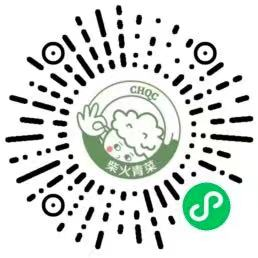
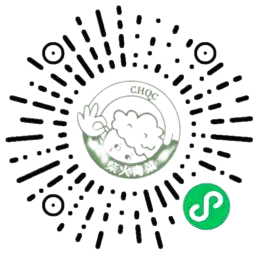
new

diff --git a/2022/08/02/推荐在线图片处理的站点/index.html b/2022/08/02/推荐在线图片处理的站点/index.html
@@ -5,15 +5,15 @@
   
   <title>推荐在线图片处理的网站 | Huanglei</title>
   <meta name="viewport" content="width=device-width, initial-scale=1, maximum-scale=1">
-  <meta name="description" content="人工智能老照片无损修复https:&#x2F;&#x2F;jpghd.com 图片压缩https:&#x2F;&#x2F;caesium.apphttps:&#x2F;&#x2F;imagecompressor.com&#x2F;zhhttps:&#x2F;&#x2F;picdiet.com&#x2F;zh-cnhttps:&#x2F;&#x2F;tinypng.comhttp:&#x2F;&#x2F;jpeg-optimizer.comhttps:&#x2F;&#x2F;compressor.io Ai人工智能图片放大https:&#x2F;&#x2F;bigjpg.co">
+  <meta name="description" content="人工智能老照片无损修复https:&#x2F;&#x2F;jpghd.com 图片压缩https:&#x2F;&#x2F;caesium.apphttps:&#x2F;&#x2F;imagecompressor.com&#x2F;zhhttps:&#x2F;&#x2F;picdiet.com&#x2F;zh-cnhttps:&#x2F;&#x2F;tinypng.comhttp:&#x2F;&#x2F;jpeg-optimizer.comhttps:&#x2F;&#x2F;compressor.io Ai抠图https:&#x2F;&#x2F;bgsub.cn Ai人工智能">
 <meta property="og:type" content="article">
 <meta property="og:title" content="推荐在线图片处理的网站">
 <meta property="og:url" content="https://maxlay.github.io/2022/08/02/%E6%8E%A8%E8%8D%90%E5%9C%A8%E7%BA%BF%E5%9B%BE%E7%89%87%E5%A4%84%E7%90%86%E7%9A%84%E7%AB%99%E7%82%B9/index.html">
 <meta property="og:site_name" content="Huanglei">
-<meta property="og:description" content="人工智能老照片无损修复https:&#x2F;&#x2F;jpghd.com 图片压缩https:&#x2F;&#x2F;caesium.apphttps:&#x2F;&#x2F;imagecompressor.com&#x2F;zhhttps:&#x2F;&#x2F;picdiet.com&#x2F;zh-cnhttps:&#x2F;&#x2F;tinypng.comhttp:&#x2F;&#x2F;jpeg-optimizer.comhttps:&#x2F;&#x2F;compressor.io Ai人工智能图片放大https:&#x2F;&#x2F;bigjpg.co">
+<meta property="og:description" content="人工智能老照片无损修复https:&#x2F;&#x2F;jpghd.com 图片压缩https:&#x2F;&#x2F;caesium.apphttps:&#x2F;&#x2F;imagecompressor.com&#x2F;zhhttps:&#x2F;&#x2F;picdiet.com&#x2F;zh-cnhttps:&#x2F;&#x2F;tinypng.comhttp:&#x2F;&#x2F;jpeg-optimizer.comhttps:&#x2F;&#x2F;compressor.io Ai抠图https:&#x2F;&#x2F;bgsub.cn Ai人工智能">
 <meta property="og:locale" content="zh_CN">
 <meta property="article:published_time" content="2022-08-02T07:28:18.000Z">
-<meta property="article:modified_time" content="2022-09-24T12:44:58.806Z">
+<meta property="article:modified_time" content="2022-09-24T14:20:51.572Z">
 <meta property="article:author" content="HuangLei">
 <meta property="article:tag" content="Huanglei">
 <meta name="twitter:card" content="summary">
@@ -169,6 +169,7 @@ var _hmt = _hmt || [];
       
         <h2 id="人工智能老照片无损修复"><a href="#人工智能老照片无损修复" class="headerlink" title="人工智能老照片无损修复"></a>人工智能老照片无损修复</h2><p><a target="_blank" rel="noopener" href="https://jpghd.com/">https://jpghd.com</a></p>
 <h2 id="图片压缩"><a href="#图片压缩" class="headerlink" title="图片压缩"></a>图片压缩</h2><p><a target="_blank" rel="noopener" href="https://caesium.app/">https://caesium.app</a><br><a target="_blank" rel="noopener" href="https://imagecompressor.com/zh">https://imagecompressor.com/zh</a><br><a target="_blank" rel="noopener" href="https://picdiet.com/zh-cn">https://picdiet.com/zh-cn</a><br><a target="_blank" rel="noopener" href="https://tinypng.com/">https://tinypng.com</a><br><a target="_blank" rel="noopener" href="http://jpeg-optimizer.com/">http://jpeg-optimizer.com</a><br><a target="_blank" rel="noopener" href="https://compressor.io/">https://compressor.io</a></p>
+<h2 id="Ai抠图"><a href="#Ai抠图" class="headerlink" title="Ai抠图"></a>Ai抠图</h2><p><a target="_blank" rel="noopener" href="https://bgsub.cn/">https://bgsub.cn</a></p>
 <h2 id="Ai人工智能图片放大"><a href="#Ai人工智能图片放大" class="headerlink" title="Ai人工智能图片放大"></a>Ai人工智能图片放大</h2><p><a target="_blank" rel="noopener" href="https://bigjpg.com/">https://bigjpg.com</a></p>
 <h2 id="Ai换脸"><a href="#Ai换脸" class="headerlink" title="Ai换脸"></a>Ai换脸</h2><p><a target="_blank" rel="noopener" href="https://faceswapper.ai/">https://faceswapper.ai</a></p>
 <h2 id="图像格式转换"><a href="#图像格式转换" class="headerlink" title="图像格式转换"></a>图像格式转换</h2><p><a target="_blank" rel="noopener" href="https://www.jpeg.io/">https://www.jpeg.io</a></p>

diff --git a/2022/08/09/我的数字资产/index.html b/2022/08/09/我的数字资产/index.html
@@ -12,17 +12,17 @@
 <meta property="og:site_name" content="Huanglei">
 <meta property="og:description" content="本文特别水，是我个人对存储和网盘的理解，没什么参考价值。">
 <meta property="og:locale" content="zh_CN">
-<meta property="og:image" content="https://ghproxy.com/https://raw.githubusercontent.com/maxlay/maxlay.github.io/main/uploads/2022/08/hard-drive.jpg">
+<meta property="og:image" content="https://ghproxy.com/https://raw.githubusercontent.com/maxlay/maxlay.github.io/main/uploads/2022/08/hard-drive.png">
 <meta property="og:image" content="https://ghproxy.com/https://raw.githubusercontent.com/maxlay/maxlay.github.io/main/uploads/2022/08/ssd.jpg">
 <meta property="og:image" content="https://ghproxy.com/https://raw.githubusercontent.com/maxlay/maxlay.github.io/main/uploads/2022/08/jd.jpg">
 <meta property="og:image" content="https://ghproxy.com/https://raw.githubusercontent.com/maxlay/maxlay.github.io/main/uploads/2022/08/pdd.jpg">
-<meta property="og:image" content="https://ghproxy.com/https://raw.githubusercontent.com/maxlay/maxlay.github.io/main/uploads/2022/08/IMG_8185.jpeg">
+<meta property="og:image" content="https://ghproxy.com/https://raw.githubusercontent.com/maxlay/maxlay.github.io/main/uploads/2022/08/IMG_8185.png">
 <meta property="article:published_time" content="2022-08-09T08:51:01.000Z">
-<meta property="article:modified_time" content="2022-09-02T03:23:25.650Z">
+<meta property="article:modified_time" content="2022-09-24T14:28:58.246Z">
 <meta property="article:author" content="HuangLei">
 <meta property="article:tag" content="Huanglei">
 <meta name="twitter:card" content="summary">
-<meta name="twitter:image" content="https://ghproxy.com/https://raw.githubusercontent.com/maxlay/maxlay.github.io/main/uploads/2022/08/hard-drive.jpg">
+<meta name="twitter:image" content="https://ghproxy.com/https://raw.githubusercontent.com/maxlay/maxlay.github.io/main/uploads/2022/08/hard-drive.png">
   
   
     <link rel="icon" href="/favicon.png">
@@ -175,7 +175,7 @@ var _hmt = _hmt || [];
       
         <p><audio controls="" src="https://ghproxy.com/https://raw.githubusercontent.com/maxlay/maxlay.github.io/main/2022/08/09/%E6%88%91%E7%9A%84%E6%95%B0%E5%AD%97%E8%B5%84%E4%BA%A7/result.mp3"></audio></p>
 <p>本文特别水，是我个人对存储和网盘的理解，没什么参考价值。</p>
-<p><img src="https://ghproxy.com/https://raw.githubusercontent.com/maxlay/maxlay.github.io/main/uploads/2022/08/hard-drive.jpg"></p>
+<p><img src="https://ghproxy.com/https://raw.githubusercontent.com/maxlay/maxlay.github.io/main/uploads/2022/08/hard-drive.png"></p>
 <span id="more"></span>
 
 <h4 id="系统SSD："><a href="#系统SSD：" class="headerlink" title="系统SSD："></a>系统SSD：</h4><blockquote>
@@ -226,7 +226,7 @@ var _hmt = _hmt || [];
 <blockquote>
 <p>特别是ISP的网盘，量足速度快，根本找不到一个向BAT网盘付费的理由。</p>
 </blockquote>
-<p><img src="https://ghproxy.com/https://raw.githubusercontent.com/maxlay/maxlay.github.io/main/uploads/2022/08/IMG_8185.jpeg"></p>
+<p><img src="https://ghproxy.com/https://raw.githubusercontent.com/maxlay/maxlay.github.io/main/uploads/2022/08/IMG_8185.png"></p>
 <p>我手机上装着ISP两大网盘的APP，全都设置成自动备份相册和手机视频，一来免费无限速上传和随时随地下载；二来数据隐私方面，我信不过BAT；其三我觉得数据安全角度，我的相册视频存我手机上，日常MBP和MacMini的iTunes备份，中移动网盘，中电信网盘，自家2块以上的机械硬盘冷备份，显得特别安心特别冗灾。</p>
 <blockquote>
 <p>不付费的情况下，中国移动网盘给了3T个人空间和2T家庭空间，网盘的使用逻辑和免费通话家庭网很像，ISP的逻辑就是一家人都要用一个运营商，一个不能少。而且官方提供TV端（比阿里云不提供TV端更大气），可以在电视上看网盘里的视频，但是无论网速还是解码，都还有待提高啊！</p>

diff --git a/2022/09/11/推荐几个进货的网站/index.html b/2022/09/11/推荐几个进货的网站/index.html
@@ -12,13 +12,13 @@
 <meta property="og:site_name" content="Huanglei">
 <meta property="og:description" content="盘一个经济学的基础知识，一个人的收入是另一个人的支出，贸易就是我用时间挣的钱换你用时间制造的商品，买卖就是时间的交易，所以时间就是金钱。找到货的源头，少了中间商抽佣，一分钱就能买到一分货。省下来的钱就是赚到的，这年头要赚钱，要么你掌握货源，要么你掌握交易平台，而平台竞争的门槛就是百亿补贴，没点家底拿来烧用户，梦想着靠任何战术偷个城，在2202年的今天，你是不是想简单了？而普通消费者吃哪一套，就">
 <meta property="og:locale" content="zh_CN">
-<meta property="og:image" content="https://ghproxy.com/https://raw.githubusercontent.com/maxlay/maxlay.github.io/main/uploads/2022/09/shopping.jpg">
+<meta property="og:image" content="https://ghproxy.com/https://raw.githubusercontent.com/maxlay/maxlay.github.io/main/uploads/2022/09/shopping.png">
 <meta property="article:published_time" content="2022-09-11T09:39:43.000Z">
-<meta property="article:modified_time" content="2022-09-12T11:02:01.269Z">
+<meta property="article:modified_time" content="2022-09-24T14:14:34.567Z">
 <meta property="article:author" content="HuangLei">
 <meta property="article:tag" content="Huanglei">
 <meta name="twitter:card" content="summary">
-<meta name="twitter:image" content="https://ghproxy.com/https://raw.githubusercontent.com/maxlay/maxlay.github.io/main/uploads/2022/09/shopping.jpg">
+<meta name="twitter:image" content="https://ghproxy.com/https://raw.githubusercontent.com/maxlay/maxlay.github.io/main/uploads/2022/09/shopping.png">
   
   
     <link rel="icon" href="/favicon.png">
@@ -170,7 +170,7 @@ var _hmt = _hmt || [];
     <div class="article-entry" itemprop="articleBody">
       
         <p><audio controls="" src="https://ghproxy.com/https://raw.githubusercontent.com/maxlay/maxlay.github.io/main/2022/09/11/推荐几个进货的网站/result.mp3"></audio></p>
-<p><img src="https://ghproxy.com/https://raw.githubusercontent.com/maxlay/maxlay.github.io/main/uploads/2022/09/shopping.jpg"></p>
+<p><img src="https://ghproxy.com/https://raw.githubusercontent.com/maxlay/maxlay.github.io/main/uploads/2022/09/shopping.png"></p>
 <p>盘一个经济学的基础知识，一个人的收入是另一个人的支出，贸易就是我用时间挣的钱换你用时间制造的商品，买卖就是时间的交易，所以时间就是金钱。找到货的源头，少了中间商抽佣，一分钱就能买到一分货。省下来的钱就是赚到的，这年头要赚钱，要么你掌握货源，要么你掌握交易平台，而平台竞争的门槛就是百亿补贴，没点家底拿来烧用户，梦想着靠任何战术偷个城，在2202年的今天，你是不是想简单了？而普通消费者吃哪一套，就会用钱投票，拼多多今年第二季度收入314亿元，较上年同期增长36%，经营利润87亿元，是外界预期的3倍，股价一度飙升30%，强者恒强。那些选择在拼多多开店的商家，为了日益枯竭的流量，竞争也是惨烈，价格低到令人发指，日子也不好过。作为消费者的你有多久没打开淘宝了？甚至很多人都已经卸载淘宝了吧？PDD就是消费降级？一分钱买一分货，有什么不对的？今天就来扒一扒那些淘宝上搞一键代发的货源，缩小你因为信息差损失的钱。</p>
 <span id="more"></span>
 

diff --git a/2018/11/16/t-me/index.html b/2018/11/16/t-me/index.html
@@ -12,13 +12,13 @@
 <meta property="og:site_name" content="Huanglei">
 <meta property="og:description" content="这里是本站的官方电报群：http:&#x2F;&#x2F;t.me&#x2F;HUANGLAY MTPROTO代理：https:&#x2F;&#x2F;whiteproxy.net&#x2F; 我在用的代理： https:&#x2F;&#x2F;t.me&#x2F;proxy?server&#x3D;free1.dianbaodaili.com&amp;port&#x3D;50010&amp;secret&#x3D;7vozq8O8b4725&#x2F;GdehBVBCh3d3cubWljcm9zb2Z0LmNvbQ ht">
 <meta property="og:locale" content="zh_CN">
-<meta property="og:image" content="https://ghproxy.com/https://raw.githubusercontent.com/maxlay/maxlay.github.io/main/uploads/2022/09/IMG_8476.jpeg">
+<meta property="og:image" content="https://ghproxy.com/https://raw.githubusercontent.com/maxlay/maxlay.github.io/main/uploads/2022/09/BgSub_IMG_8476.png">
 <meta property="article:published_time" content="2018-11-15T16:35:44.000Z">
-<meta property="article:modified_time" content="2022-09-24T12:38:52.112Z">
+<meta property="article:modified_time" content="2022-09-24T14:12:31.976Z">
 <meta property="article:author" content="HuangLei">
 <meta property="article:tag" content="Huanglei">
 <meta name="twitter:card" content="summary">
-<meta name="twitter:image" content="https://ghproxy.com/https://raw.githubusercontent.com/maxlay/maxlay.github.io/main/uploads/2022/09/IMG_8476.jpeg">
+<meta name="twitter:image" content="https://ghproxy.com/https://raw.githubusercontent.com/maxlay/maxlay.github.io/main/uploads/2022/09/BgSub_IMG_8476.png">
   
   
     <link rel="icon" href="/favicon.png">
@@ -169,7 +169,7 @@ var _hmt = _hmt || [];
     
     <div class="article-entry" itemprop="articleBody">
       
-        <p><a href="tg://resolve?domain=HUANGLAY"><img src="https://ghproxy.com/https://raw.githubusercontent.com/maxlay/maxlay.github.io/main/uploads/2022/09/IMG_8476.jpeg"></a></p>
+        <p><a href="tg://resolve?domain=HUANGLAY"><img src="https://ghproxy.com/https://raw.githubusercontent.com/maxlay/maxlay.github.io/main/uploads/2022/09/BgSub_IMG_8476.png"></a></p>
 <p>这里是本站的官方电报群：<a href="tg://resolve?domain=HUANGLAY">http://t.me/HUANGLAY</a></p>
 <p>MTPROTO代理：<a target="_blank" rel="noopener" href="https://whiteproxy.net/">https://whiteproxy.net/</a></p>
 <p>我在用的代理：</p>
@@ -178,6 +178,11 @@ var _hmt = _hmt || [];
 <p><a target="_blank" rel="noopener" href="https://t.me/proxy?server=kazakhstan.dianbaodaili.com&amp;port=39001&amp;secret=7vozq8O8b4725/GdehBVBCh3d3cubWljcm9zb2Z0LmNvbQ">https://t.me/proxy?server=kazakhstan.dianbaodaili.com&amp;port=39001&amp;secret=7vozq8O8b4725/GdehBVBCh3d3cubWljcm9zb2Z0LmNvbQ</a></p>
 <p>我在用的聊天背景：</p>
 <p><a target="_blank" rel="noopener" href="https://t.me/bg/CJNyxPMgSVAEAAAAvW9sMwc51cw?intensity=100&amp;bg_color=fec496~dd6cb9~962fbf~4f5bd5&amp;mode=motion">https://t.me/bg/CJNyxPMgSVAEAAAAvW9sMwc51cw?intensity=100&amp;bg_color=fec496~dd6cb9~962fbf~4f5bd5&amp;mode=motion</a></p>
+<p>TG机器人商店：</p>
+<p><a target="_blank" rel="noopener" href="https://botostore.com/bots">https://botostore.com/bots</a></p>
+<blockquote>
+<p>目前已经共收录12.8万个，各个领域的Telegram机器人都有，并且这些机器人都是通过人类增强 AI 实现自动化在线测试后添加的，也就是说出现离线不回复的机器人机会比较低（有些机器人会出现故障），每个机器人都有详细的介绍和使用说明。</p>
+</blockquote>
 
       
     </div>

diff --git a/2022/08/30/雅迪电动车/index.html b/2022/08/30/雅迪电动车/index.html
@@ -12,13 +12,13 @@
 <meta property="og:site_name" content="Huanglei">
 <meta property="og:description" content="据说湖州9月1日开始旧电车置换活动停止了，最后两天把家里的旧电车置换一下，购入新国标雅迪电动车TDR2755Z星空白，锂电48V24Ah，自付3200元。  “浙品码”：https:&#x2F;&#x2F;www.pzcode.cn&#x2F;Manage&#x2F;Basic&#x2F;Battery&#x2F;ScanView.aspx?type&#x3D;0&amp;id&#x3D;10086378 《电动自行车靠近解锁》小2万的九号电动车E200有一个很牛的功能，就是">
 <meta property="og:locale" content="zh_CN">
-<meta property="og:image" content="https://ghproxy.com/https://raw.githubusercontent.com/maxlay/maxlay.github.io/main/uploads/2022/08/IMG_8271.jpeg">
+<meta property="og:image" content="https://ghproxy.com/https://raw.githubusercontent.com/maxlay/maxlay.github.io/main/uploads/2022/08/IMG_8271.png">
 <meta property="article:published_time" content="2022-08-30T02:58:22.000Z">
-<meta property="article:modified_time" content="2022-09-02T03:23:25.394Z">
+<meta property="article:modified_time" content="2022-09-24T14:33:53.728Z">
 <meta property="article:author" content="HuangLei">
 <meta property="article:tag" content="Huanglei">
 <meta name="twitter:card" content="summary">
-<meta name="twitter:image" content="https://ghproxy.com/https://raw.githubusercontent.com/maxlay/maxlay.github.io/main/uploads/2022/08/IMG_8271.jpeg">
+<meta name="twitter:image" content="https://ghproxy.com/https://raw.githubusercontent.com/maxlay/maxlay.github.io/main/uploads/2022/08/IMG_8271.png">
   
   
     <link rel="icon" href="/favicon.png">
@@ -170,7 +170,7 @@ var _hmt = _hmt || [];
     <div class="article-entry" itemprop="articleBody">
       
         <p>据说湖州9月1日开始旧电车置换活动停止了，最后两天把家里的旧电车置换一下，购入新国标雅迪电动车TDR2755Z星空白，锂电48V24Ah，自付3200元。</p>
-<p><img src="https://ghproxy.com/https://raw.githubusercontent.com/maxlay/maxlay.github.io/main/uploads/2022/08/IMG_8271.jpeg"></p>
+<p><img src="https://ghproxy.com/https://raw.githubusercontent.com/maxlay/maxlay.github.io/main/uploads/2022/08/IMG_8271.png"></p>
 <p>“浙品码”：<br><a target="_blank" rel="noopener" href="https://www.pzcode.cn/Manage/Basic/Battery/ScanView.aspx?type=0&amp;id=10086378">https://www.pzcode.cn/Manage/Basic/Battery/ScanView.aspx?type=0&amp;id=10086378</a></p>
 <p><a href="https://maxlay.github.io/2021/11/04/%E7%94%B5%E5%8A%A8%E8%87%AA%E8%A1%8C%E8%BD%A6%E9%9D%A0%E8%BF%91%E8%A7%A3%E9%94%81/">《电动自行车靠近解锁》</a><br>小2万的九号电动车E200有一个很牛的功能，就是手机靠近即可解锁，离开自动上锁。我觉得这个功能挺好，车也很好，就是售价不怎么好。<a href="https://maxlay.github.io/2021/11/04/%E7%94%B5%E5%8A%A8%E8%87%AA%E8%A1%8C%E8%BD%A6%E9%9D%A0%E8%BF%91%E8%A7%A3%E9%94%81/">……</a><br><a href="https://maxlay.github.io/2021/11/04/%E7%94%B5%E5%8A%A8%E8%87%AA%E8%A1%8C%E8%BD%A6%E9%9D%A0%E8%BF%91%E8%A7%A3%E9%94%81/">https://maxlay.github.io/2021/11/04/%E7%94%B5%E5%8A%A8%E8%87%AA%E8%A1%8C%E8%BD%A6%E9%9D%A0%E8%BF%91%E8%A7%A3%E9%94%81/</a></p>
 

diff --git a/page/5/index.html b/page/5/index.html
@@ -272,7 +272,7 @@ var _hmt = _hmt || [];
       
         <p><audio controls="" src="https://ghproxy.com/https://raw.githubusercontent.com/maxlay/maxlay.github.io/main/2022/08/15/Tiktok/result.mp3"></audio></p>
 <p>如何在iOS上安装和使用国际版TikTok</p>
-<p><img src="https://ghproxy.com/https://raw.githubusercontent.com/maxlay/maxlay.github.io/main/uploads/2022/08/Tiktok.jpeg"></p>
+<p><img src="https://ghproxy.com/https://raw.githubusercontent.com/maxlay/maxlay.github.io/main/uploads/2022/08/Tiktok.png"></p>
 <p>1、首先要能科学上网<br><a href="https://maxlay.github.io/2022/08/14/ShadowRocket2022/">https://maxlay.github.io/2022/08/14/ShadowRocket2022/</a></p>
 <p>2、下载国际版TikTok的ipa文件到桌面端<br><a target="_blank" rel="noopener" href="https://www.mediafire.com/file/7rtq772su5wsa57/tiktok.ipa/file">https://www.mediafire.com/file/7rtq772su5wsa57/tiktok.ipa/file</a></p>
 <p>3、下载桌面端自签名工具签名ipa并安装到手机<br><a target="_blank" rel="noopener" href="https://sideloadly.io/">https://sideloadly.io</a></p>
@@ -388,7 +388,7 @@ var _hmt = _hmt || [];
       
         <p><audio controls="" src="https://ghproxy.com/https://raw.githubusercontent.com/maxlay/maxlay.github.io/main/2022/08/13/%E5%85%B3%E4%BA%8E%E5%87%8F%E8%82%A5/result.mp3"></audio></p>
 <p>我是个胖子，我认为是因为胖，所以我的低密度脂蛋白胆固醇超标严重，达到了惊人的4.6，虽然目前没有病症，防患未然，我决定并实施减肥，本文探索适合自己的减肥方案，是我的日常，不适合每个人。</p>
-<p><img src="https://ghproxy.com/https://raw.githubusercontent.com/maxlay/maxlay.github.io/main/uploads/2022/08/bmi.jpg"></p>
+<p><img src="https://ghproxy.com/https://raw.githubusercontent.com/maxlay/maxlay.github.io/main/uploads/2022/08/bmi.png"></p>
 <p>BMI正常值在18.5至24之间，我的目标是22以下。</p>
 <h5 id="我目前的BMI是：25-827814569536424"><a href="#我目前的BMI是：25-827814569536424" class="headerlink" title="我目前的BMI是：25.827814569536424"></a>我目前的BMI是：25.827814569536424</h5>
         
@@ -614,7 +614,7 @@ var _hmt = _hmt || [];
       
         <p><audio controls="" src="https://ghproxy.com/https://raw.githubusercontent.com/maxlay/maxlay.github.io/main/2022/08/09/%E6%88%91%E7%9A%84%E6%95%B0%E5%AD%97%E8%B5%84%E4%BA%A7/result.mp3"></audio></p>
 <p>本文特别水，是我个人对存储和网盘的理解，没什么参考价值。</p>
-<p><img src="https://ghproxy.com/https://raw.githubusercontent.com/maxlay/maxlay.github.io/main/uploads/2022/08/hard-drive.jpg"></p>
+<p><img src="https://ghproxy.com/https://raw.githubusercontent.com/maxlay/maxlay.github.io/main/uploads/2022/08/hard-drive.png"></p>
         
           <p class="article-more-link">
             <a href="/2022/08/09/%E6%88%91%E7%9A%84%E6%95%B0%E5%AD%97%E8%B5%84%E4%BA%A7/#more">......</a>

diff --git a/2022/08/15/Tiktok/index.html b/2022/08/15/Tiktok/index.html
@@ -12,13 +12,13 @@
 <meta property="og:site_name" content="Huanglei">
 <meta property="og:description" content="如何在iOS上安装和使用国际版TikTok  1、首先要能科学上网https:&#x2F;&#x2F;maxlay.github.io&#x2F;2022&#x2F;08&#x2F;14&#x2F;ShadowRocket2022&#x2F; 2、下载国际版TikTok的ipa文件到桌面端https:&#x2F;&#x2F;www.mediafire.com&#x2F;file&#x2F;7rtq772su5wsa57&#x2F;tiktok.ipa&#x2F;file 3、下载桌面端自签名工具签名ipa并安装到手机htt">
 <meta property="og:locale" content="zh_CN">
-<meta property="og:image" content="https://ghproxy.com/https://raw.githubusercontent.com/maxlay/maxlay.github.io/main/uploads/2022/08/Tiktok.jpeg">
+<meta property="og:image" content="https://ghproxy.com/https://raw.githubusercontent.com/maxlay/maxlay.github.io/main/uploads/2022/08/Tiktok.png">
 <meta property="article:published_time" content="2022-08-15T04:14:01.000Z">
-<meta property="article:modified_time" content="2022-09-09T05:54:47.790Z">
+<meta property="article:modified_time" content="2022-09-24T14:37:09.271Z">
 <meta property="article:author" content="HuangLei">
 <meta property="article:tag" content="Huanglei">
 <meta name="twitter:card" content="summary">
-<meta name="twitter:image" content="https://ghproxy.com/https://raw.githubusercontent.com/maxlay/maxlay.github.io/main/uploads/2022/08/Tiktok.jpeg">
+<meta name="twitter:image" content="https://ghproxy.com/https://raw.githubusercontent.com/maxlay/maxlay.github.io/main/uploads/2022/08/Tiktok.png">
   
   
     <link rel="icon" href="/favicon.png">
@@ -171,7 +171,7 @@ var _hmt = _hmt || [];
       
         <p><audio controls="" src="https://ghproxy.com/https://raw.githubusercontent.com/maxlay/maxlay.github.io/main/2022/08/15/Tiktok/result.mp3"></audio></p>
 <p>如何在iOS上安装和使用国际版TikTok</p>
-<p><img src="https://ghproxy.com/https://raw.githubusercontent.com/maxlay/maxlay.github.io/main/uploads/2022/08/Tiktok.jpeg"></p>
+<p><img src="https://ghproxy.com/https://raw.githubusercontent.com/maxlay/maxlay.github.io/main/uploads/2022/08/Tiktok.png"></p>
 <p>1、首先要能科学上网<br><a href="https://maxlay.github.io/2022/08/14/ShadowRocket2022/">https://maxlay.github.io/2022/08/14/ShadowRocket2022/</a></p>
 <p>2、下载国际版TikTok的ipa文件到桌面端<br><a target="_blank" rel="noopener" href="https://www.mediafire.com/file/7rtq772su5wsa57/tiktok.ipa/file">https://www.mediafire.com/file/7rtq772su5wsa57/tiktok.ipa/file</a></p>
 <p>3、下载桌面端自签名工具签名ipa并安装到手机<br><a target="_blank" rel="noopener" href="https://sideloadly.io/">https://sideloadly.io</a></p>

diff --git a/2022/08/13/关于减肥/index.html b/2022/08/13/关于减肥/index.html
@@ -12,13 +12,13 @@
 <meta property="og:site_name" content="Huanglei">
 <meta property="og:description" content="我是个胖子，我认为是因为胖，所以我的低密度脂蛋白胆固醇超标严重，达到了惊人的4.6，虽然目前没有病症，防患未然，我决定并实施减肥，本文探索适合自己的减肥方案，是我的日常，不适合每个人。  BMI正常值在18.5至24之间，我的目标是22以下。 我目前的BMI是：25.827814569536424">
 <meta property="og:locale" content="zh_CN">
-<meta property="og:image" content="https://ghproxy.com/https://raw.githubusercontent.com/maxlay/maxlay.github.io/main/uploads/2022/08/bmi.jpg">
+<meta property="og:image" content="https://ghproxy.com/https://raw.githubusercontent.com/maxlay/maxlay.github.io/main/uploads/2022/08/bmi.png">
 <meta property="article:published_time" content="2022-08-13T03:40:06.000Z">
-<meta property="article:modified_time" content="2022-09-09T05:50:32.480Z">
+<meta property="article:modified_time" content="2022-09-24T14:22:20.625Z">
 <meta property="article:author" content="HuangLei">
 <meta property="article:tag" content="Huanglei">
 <meta name="twitter:card" content="summary">
-<meta name="twitter:image" content="https://ghproxy.com/https://raw.githubusercontent.com/maxlay/maxlay.github.io/main/uploads/2022/08/bmi.jpg">
+<meta name="twitter:image" content="https://ghproxy.com/https://raw.githubusercontent.com/maxlay/maxlay.github.io/main/uploads/2022/08/bmi.png">
   
   
     <link rel="icon" href="/favicon.png">
@@ -171,7 +171,7 @@ var _hmt = _hmt || [];
       
         <p><audio controls="" src="https://ghproxy.com/https://raw.githubusercontent.com/maxlay/maxlay.github.io/main/2022/08/13/%E5%85%B3%E4%BA%8E%E5%87%8F%E8%82%A5/result.mp3"></audio></p>
 <p>我是个胖子，我认为是因为胖，所以我的低密度脂蛋白胆固醇超标严重，达到了惊人的4.6，虽然目前没有病症，防患未然，我决定并实施减肥，本文探索适合自己的减肥方案，是我的日常，不适合每个人。</p>
-<p><img src="https://ghproxy.com/https://raw.githubusercontent.com/maxlay/maxlay.github.io/main/uploads/2022/08/bmi.jpg"></p>
+<p><img src="https://ghproxy.com/https://raw.githubusercontent.com/maxlay/maxlay.github.io/main/uploads/2022/08/bmi.png"></p>
 <p>BMI正常值在18.5至24之间，我的目标是22以下。</p>
 <h5 id="我目前的BMI是：25-827814569536424"><a href="#我目前的BMI是：25-827814569536424" class="headerlink" title="我目前的BMI是：25.827814569536424"></a>我目前的BMI是：25.827814569536424</h5><span id="more"></span>
 

diff --git a/2022/04/18/从Manjaro到Fydeos/index.html b/2022/04/18/从Manjaro到Fydeos/index.html
@@ -12,15 +12,15 @@
 <meta property="og:site_name" content="Huanglei">
 <meta property="og:description" content="从DOS&#x2F;Win32到Win95&#x2F;98,从2000&#x2F;2003到NT&#x2F;XP，从win7到Win10，从MacOS到Debian&#x2F;CentOS&#x2F;Ubuntu，从Manjaro到ChromeOSflex&#x2F;FydeOS。">
 <meta property="og:locale" content="zh_CN">
-<meta property="og:image" content="https://ghproxy.com/https://raw.githubusercontent.com/maxlay/maxlay.github.io/main/uploads/2022/08/fydeos.jpg">
+<meta property="og:image" content="https://ghproxy.com/https://raw.githubusercontent.com/maxlay/maxlay.github.io/main/uploads/2022/08/fydeos.png">
 <meta property="og:image" content="https://ghproxy.com/https://raw.githubusercontent.com/maxlay/maxlay.github.io/main/uploads/2022/08/myFydeOS.jpeg">
 <meta property="og:image" content="https://ghproxy.com/https://raw.githubusercontent.com/maxlay/maxlay.github.io/main/uploads/2022/08/taobaoyaokong.jpeg">
 <meta property="article:published_time" content="2022-04-18T11:47:09.000Z">
-<meta property="article:modified_time" content="2022-09-02T03:38:27.275Z">
+<meta property="article:modified_time" content="2022-09-24T14:25:27.800Z">
 <meta property="article:author" content="HuangLei">
 <meta property="article:tag" content="Huanglei">
 <meta name="twitter:card" content="summary">
-<meta name="twitter:image" content="https://ghproxy.com/https://raw.githubusercontent.com/maxlay/maxlay.github.io/main/uploads/2022/08/fydeos.jpg">
+<meta name="twitter:image" content="https://ghproxy.com/https://raw.githubusercontent.com/maxlay/maxlay.github.io/main/uploads/2022/08/fydeos.png">
   
   
     <link rel="icon" href="/favicon.png">
@@ -172,7 +172,7 @@ var _hmt = _hmt || [];
     <div class="article-entry" itemprop="articleBody">
       
         <p>从DOS&#x2F;Win32到Win95&#x2F;98,从2000&#x2F;2003到NT&#x2F;XP，从win7到Win10，从MacOS到Debian&#x2F;CentOS&#x2F;Ubuntu，从Manjaro到ChromeOSflex&#x2F;FydeOS。</p>
-<p><img src="https://ghproxy.com/https://raw.githubusercontent.com/maxlay/maxlay.github.io/main/uploads/2022/08/fydeos.jpg"></p>
+<p><img src="https://ghproxy.com/https://raw.githubusercontent.com/maxlay/maxlay.github.io/main/uploads/2022/08/fydeos.png"></p>
 <span id="more"></span>
 
 <h5 id="2022年我的PC家用装的是FydeOS"><a href="#2022年我的PC家用装的是FydeOS" class="headerlink" title="2022年我的PC家用装的是FydeOS"></a>2022年我的PC家用装的是FydeOS</h5><p>当然，商用依然还是MacOS搭配iPadOS和iOS。</p>

diff --git a/2022/09/04/推荐自学编程的网站/index.html b/2022/09/04/推荐自学编程的网站/index.html
@@ -12,13 +12,13 @@
 <meta property="og:site_name" content="Huanglei">
 <meta property="og:description" content="[Stackoverflow]https:&#x2F;&#x2F;stackoverflow.com&#x2F;  世界上最大的程序员技术问答网站技术问题种类全面。  [力扣]https:&#x2F;&#x2F;leetcode.cn&#x2F;  世界上最大的程序员刷题网站被业界称为卷王之王的必备工具，得到了所有主流互联网制大厂的认可，许多公司的技术面试问题也来自这个网站。  [Freecodecamp]https:&#x2F;&#x2F;www.freecodecamp">
 <meta property="og:locale" content="zh_CN">
-<meta property="og:image" content="https://ghproxy.com/https://raw.githubusercontent.com/maxlay/maxlay.github.io/main/uploads/2022/09/codes.jpg">
+<meta property="og:image" content="https://ghproxy.com/https://raw.githubusercontent.com/maxlay/maxlay.github.io/main/uploads/2022/09/codes.png">
 <meta property="article:published_time" content="2022-09-04T05:29:14.000Z">
-<meta property="article:modified_time" content="2022-09-09T05:45:48.176Z">
+<meta property="article:modified_time" content="2022-09-24T14:18:33.921Z">
 <meta property="article:author" content="HuangLei">
 <meta property="article:tag" content="Huanglei">
 <meta name="twitter:card" content="summary">
-<meta name="twitter:image" content="https://ghproxy.com/https://raw.githubusercontent.com/maxlay/maxlay.github.io/main/uploads/2022/09/codes.jpg">
+<meta name="twitter:image" content="https://ghproxy.com/https://raw.githubusercontent.com/maxlay/maxlay.github.io/main/uploads/2022/09/codes.png">
   
   
     <link rel="icon" href="/favicon.png">
@@ -169,7 +169,7 @@ var _hmt = _hmt || [];
     
     <div class="article-entry" itemprop="articleBody">
       
-        <p><img src="https://ghproxy.com/https://raw.githubusercontent.com/maxlay/maxlay.github.io/main/uploads/2022/09/codes.jpg"></p>
+        <p><img src="https://ghproxy.com/https://raw.githubusercontent.com/maxlay/maxlay.github.io/main/uploads/2022/09/codes.png"></p>
 <p>[Stackoverflow]<br><a target="_blank" rel="noopener" href="https://stackoverflow.com/">https://stackoverflow.com/</a></p>
 <blockquote>
 <p>世界上最大的程序员技术问答网站技术问题种类全面。</p>

diff --git a/2022/08/24/在湖州坐公交/index.html b/2022/08/24/在湖州坐公交/index.html
@@ -12,13 +12,13 @@
 <meta property="og:site_name" content="Huanglei">
 <meta property="og:description" content="湖州公交实时进出站信息可以在微信小程序“掌上公交”上查看。   进入小程序后搜索湖州市，开启位置权限，就能查看离你最近的公交站台的公交实时进出站信息。  如果正巧没带公交卡，可以刷“云闪付”，在2022年11月30日之前可以享受优惠。可以用下面的快捷指令一步打开云闪付的付款码，也可以背后敲两下执行快捷指令。 https:&#x2F;&#x2F;www.icloud.com&#x2F;shortcuts&#x2F;8d1d79f28d4">
 <meta property="og:locale" content="zh_CN">
-<meta property="og:image" content="https://maxlay.github.io/uploads/2022/08/zsgj.jpg">
+<meta property="og:image" content="https://maxlay.github.io/uploads/2022/08/zsgj.png">
 <meta property="article:published_time" content="2022-08-24T15:45:54.000Z">
-<meta property="article:modified_time" content="2022-09-09T05:51:38.468Z">
+<meta property="article:modified_time" content="2022-09-24T14:54:04.644Z">
 <meta property="article:author" content="HuangLei">
 <meta property="article:tag" content="Huanglei">
 <meta name="twitter:card" content="summary">
-<meta name="twitter:image" content="https://maxlay.github.io/uploads/2022/08/zsgj.jpg">
+<meta name="twitter:image" content="https://maxlay.github.io/uploads/2022/08/zsgj.png">
   
   
     <link rel="icon" href="/favicon.png">
@@ -171,7 +171,7 @@ var _hmt = _hmt || [];
       
         <p><audio controls="" src="https://ghproxy.com/https://raw.githubusercontent.com/maxlay/maxlay.github.io/main/2022/08/24/%E5%9C%A8%E6%B9%96%E5%B7%9E%E5%9D%90%E5%85%AC%E4%BA%A4/result.mp3"></audio></p>
 <p>湖州公交实时进出站信息可以在微信小程序“掌上公交”上查看。</p>
-<p><img src="https://maxlay.github.io/uploads/2022/08/zsgj.jpg" alt="微信搜索小程序：掌上公交"></p>
+<p><img src="https://maxlay.github.io/uploads/2022/08/zsgj.png" alt="微信搜索小程序：掌上公交"></p>
 <blockquote>
 <p>进入小程序后搜索湖州市，开启位置权限，就能查看离你最近的公交站台的公交实时进出站信息。</p>
 </blockquote>

diff --git a/page/3/index.html b/page/3/index.html
@@ -350,7 +350,7 @@ var _hmt = _hmt || [];
     
     <div class="article-entry" itemprop="articleBody">
       
-        <p><img src="https://ghproxy.com/https://raw.githubusercontent.com/maxlay/maxlay.github.io/main/uploads/2022/09/codes.jpg"></p>
+        <p><img src="https://ghproxy.com/https://raw.githubusercontent.com/maxlay/maxlay.github.io/main/uploads/2022/09/codes.png"></p>
 <p>[Stackoverflow]<br><a target="_blank" rel="noopener" href="https://stackoverflow.com/">https://stackoverflow.com/</a></p>
 <blockquote>
 <p>世界上最大的程序员技术问答网站技术问题种类全面。</p>
@@ -587,7 +587,7 @@ var _hmt = _hmt || [];
     <div class="article-entry" itemprop="articleBody">
       
         <p>据说湖州9月1日开始旧电车置换活动停止了，最后两天把家里的旧电车置换一下，购入新国标雅迪电动车TDR2755Z星空白，锂电48V24Ah，自付3200元。</p>
-<p><img src="https://ghproxy.com/https://raw.githubusercontent.com/maxlay/maxlay.github.io/main/uploads/2022/08/IMG_8271.jpeg"></p>
+<p><img src="https://ghproxy.com/https://raw.githubusercontent.com/maxlay/maxlay.github.io/main/uploads/2022/08/IMG_8271.png"></p>
 <p>“浙品码”：<br><a target="_blank" rel="noopener" href="https://www.pzcode.cn/Manage/Basic/Battery/ScanView.aspx?type=0&amp;id=10086378">https://www.pzcode.cn/Manage/Basic/Battery/ScanView.aspx?type=0&amp;id=10086378</a></p>
 <p><a href="https://maxlay.github.io/2021/11/04/%E7%94%B5%E5%8A%A8%E8%87%AA%E8%A1%8C%E8%BD%A6%E9%9D%A0%E8%BF%91%E8%A7%A3%E9%94%81/">《电动自行车靠近解锁》</a><br>小2万的九号电动车E200有一个很牛的功能，就是手机靠近即可解锁，离开自动上锁。我觉得这个功能挺好，车也很好，就是售价不怎么好。<a href="https://maxlay.github.io/2021/11/04/%E7%94%B5%E5%8A%A8%E8%87%AA%E8%A1%8C%E8%BD%A6%E9%9D%A0%E8%BF%91%E8%A7%A3%E9%94%81/">……</a><br><a href="https://maxlay.github.io/2021/11/04/%E7%94%B5%E5%8A%A8%E8%87%AA%E8%A1%8C%E8%BD%A6%E9%9D%A0%E8%BF%91%E8%A7%A3%E9%94%81/">https://maxlay.github.io/2021/11/04/%E7%94%B5%E5%8A%A8%E8%87%AA%E8%A1%8C%E8%BD%A6%E9%9D%A0%E8%BF%91%E8%A7%A3%E9%94%81/</a></p>
 
